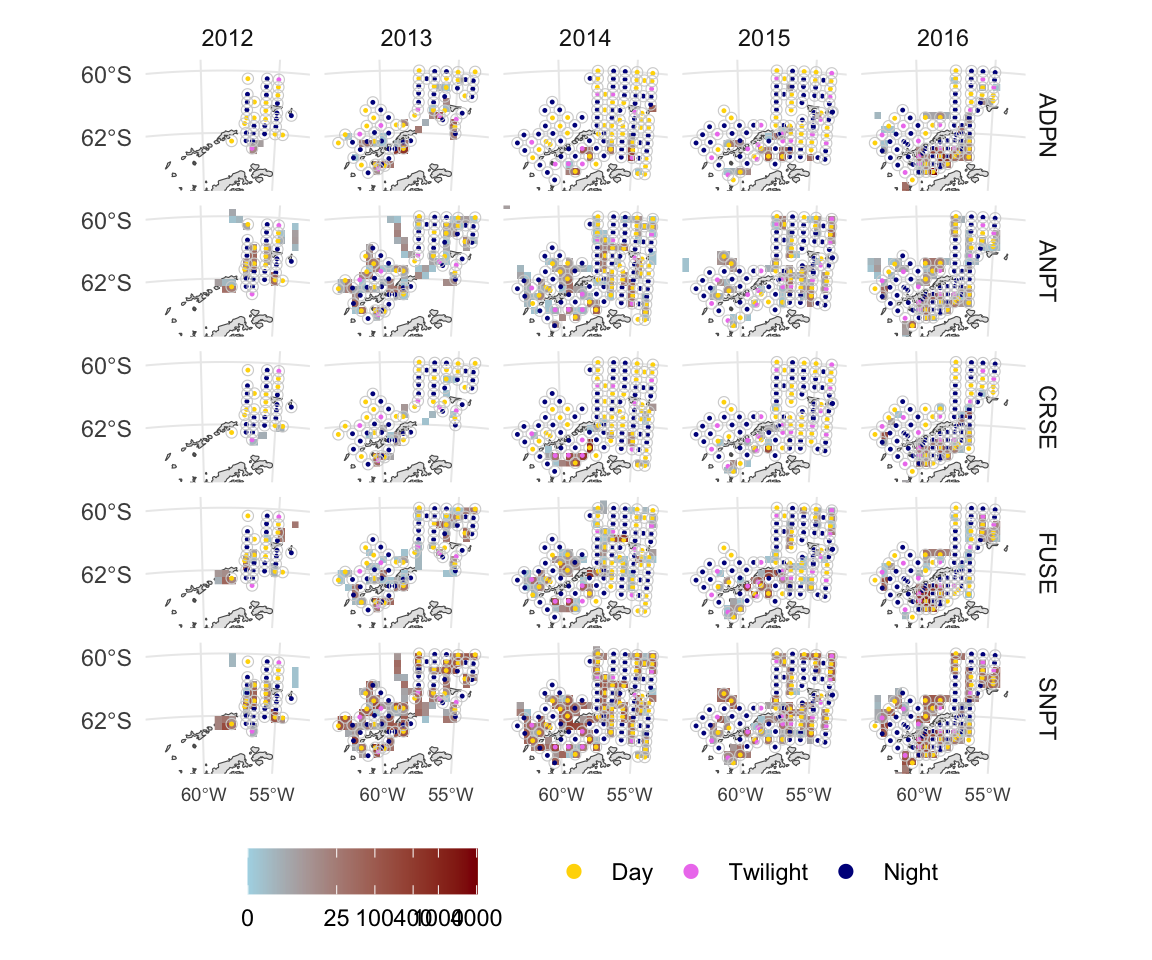
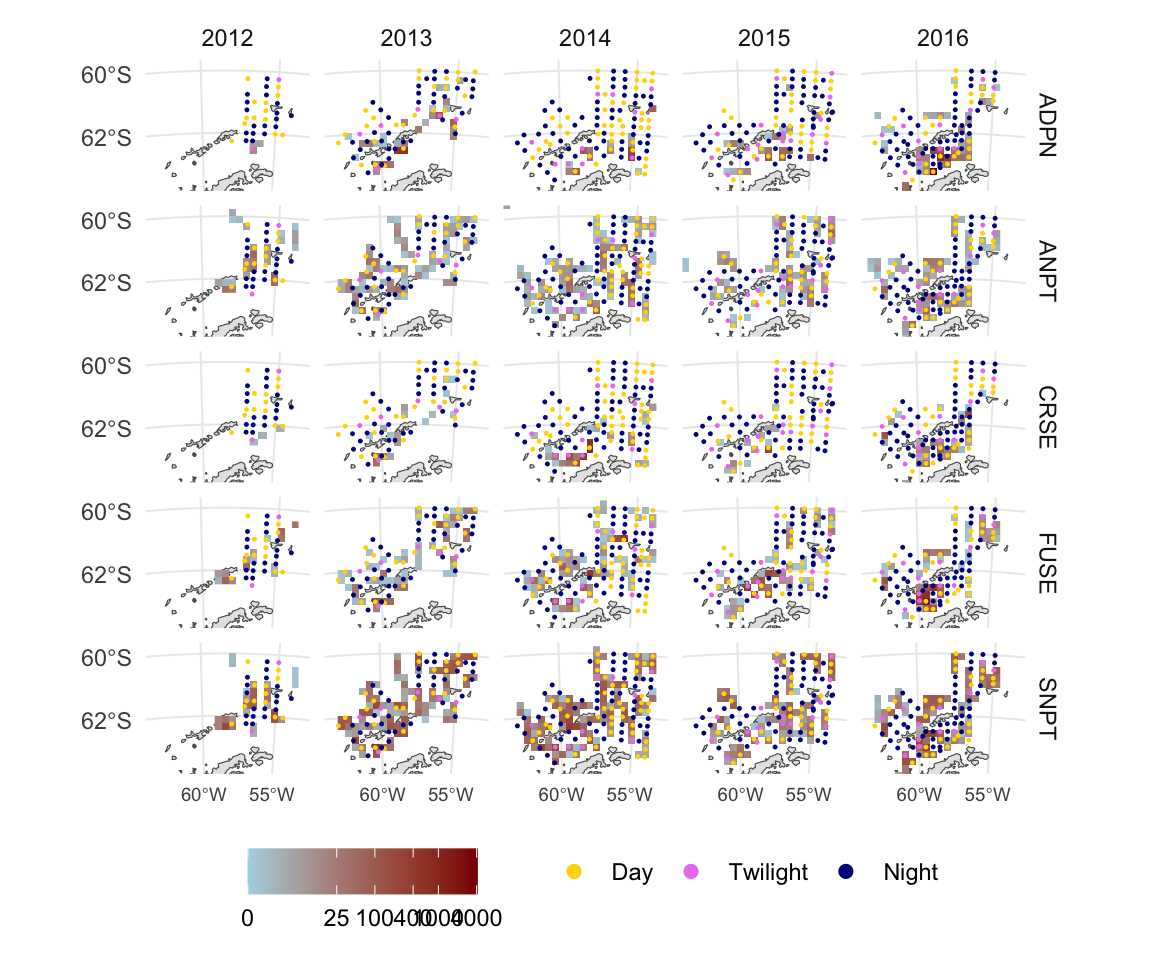
Remove buffers from combined maps

diff --git a/docs/03_combined.html b/docs/03_combined.html
@@ -152,21 +152,20 @@ code span.wa { color: #60a0b0; font-weight: bold; font-style: italic; } /* Warni
 <span id="cb1-23"><a href="#cb1-23" aria-hidden="true" tabindex="-1"></a><span class="fu">ant_basemap</span>(map_lim) <span class="sc">+</span></span>
 <span id="cb1-24"><a href="#cb1-24" aria-hidden="true" tabindex="-1"></a>  stars<span class="sc">::</span><span class="fu">geom_stars</span>(<span class="fu">aes</span>(<span class="at">fill =</span> count), <span class="at">data =</span> topfive_stars) <span class="sc">+</span></span>
 <span id="cb1-25"><a href="#cb1-25" aria-hidden="true" tabindex="-1"></a>  <span class="fu">geom_sf</span>(<span class="fu">aes</span>(<span class="at">color =</span> time.of.day), zoop_sf, <span class="at">size =</span> <span class="fl">0.2</span>) <span class="sc">+</span></span>
-<span id="cb1-26"><a href="#cb1-26" aria-hidden="true" tabindex="-1"></a>  <span class="fu">geom_sf</span>(<span class="at">data =</span> zoop_buffers_20k, <span class="at">color =</span> <span class="st">"lightgrey"</span>, <span class="at">fill =</span> <span class="cn">NA</span>) <span class="sc">+</span></span>
-<span id="cb1-27"><a href="#cb1-27" aria-hidden="true" tabindex="-1"></a>  <span class="fu">scale_x_continuous</span>(<span class="at">breaks =</span> <span class="fu">c</span>(<span class="sc">-</span><span class="dv">65</span>, <span class="sc">-</span><span class="dv">60</span>, <span class="sc">-</span><span class="dv">55</span>)) <span class="sc">+</span></span>
-<span id="cb1-28"><a href="#cb1-28" aria-hidden="true" tabindex="-1"></a>  <span class="fu">scale_y_continuous</span>(<span class="at">breaks =</span> <span class="fu">c</span>(<span class="sc">-</span><span class="dv">66</span>, <span class="sc">-</span><span class="dv">64</span>, <span class="sc">-</span><span class="dv">62</span>, <span class="sc">-</span><span class="dv">60</span>)) <span class="sc">+</span></span>
-<span id="cb1-29"><a href="#cb1-29" aria-hidden="true" tabindex="-1"></a>  <span class="fu">scale_fill_gradient</span>(<span class="at">low =</span> <span class="st">"lightblue"</span>, <span class="at">high =</span> <span class="st">"darkred"</span>,</span>
-<span id="cb1-30"><a href="#cb1-30" aria-hidden="true" tabindex="-1"></a>                      <span class="at">trans =</span> scales<span class="sc">::</span><span class="fu">pseudo_log_trans</span>(),</span>
-<span id="cb1-31"><a href="#cb1-31" aria-hidden="true" tabindex="-1"></a>                      <span class="at">breaks =</span> <span class="fu">c</span>(<span class="dv">0</span>, <span class="dv">25</span>, <span class="dv">100</span>, <span class="dv">400</span>, <span class="dv">1000</span>, <span class="dv">4000</span>),</span>
-<span id="cb1-32"><a href="#cb1-32" aria-hidden="true" tabindex="-1"></a>                      <span class="at">na.value =</span> <span class="cn">NA</span>) <span class="sc">+</span></span>
-<span id="cb1-33"><a href="#cb1-33" aria-hidden="true" tabindex="-1"></a>  <span class="fu">scale_color_manual</span>(<span class="at">values =</span> <span class="fu">tod_pal</span>()) <span class="sc">+</span></span>
-<span id="cb1-34"><a href="#cb1-34" aria-hidden="true" tabindex="-1"></a>  <span class="fu">guides</span>(<span class="at">color =</span> <span class="fu">guide_legend</span>(<span class="at">override.aes =</span> <span class="fu">list</span>(<span class="at">size =</span> <span class="dv">2</span>))) <span class="sc">+</span></span>
-<span id="cb1-35"><a href="#cb1-35" aria-hidden="true" tabindex="-1"></a>  <span class="fu">coord_ant</span>(map_lim) <span class="sc">+</span></span>
-<span id="cb1-36"><a href="#cb1-36" aria-hidden="true" tabindex="-1"></a>  <span class="fu">facet_grid</span>(species <span class="sc">~</span> year) <span class="sc">+</span></span>
-<span id="cb1-37"><a href="#cb1-37" aria-hidden="true" tabindex="-1"></a>  <span class="fu">expand_limits</span>(<span class="at">fill =</span> <span class="dv">0</span>) <span class="sc">+</span></span>
-<span id="cb1-38"><a href="#cb1-38" aria-hidden="true" tabindex="-1"></a>  <span class="fu">theme</span>(<span class="at">axis.text.x =</span> <span class="fu">element_text</span>(<span class="at">size =</span> <span class="dv">7</span>),</span>
-<span id="cb1-39"><a href="#cb1-39" aria-hidden="true" tabindex="-1"></a>        <span class="at">legend.position =</span> <span class="st">"bottom"</span>,</span>
-<span id="cb1-40"><a href="#cb1-40" aria-hidden="true" tabindex="-1"></a>        <span class="at">legend.title =</span> <span class="fu">element_blank</span>())</span></code><button title="Copy to Clipboard" class="code-copy-button"><i class="bi"></i></button></pre></div>
+<span id="cb1-26"><a href="#cb1-26" aria-hidden="true" tabindex="-1"></a>  <span class="fu">scale_x_continuous</span>(<span class="at">breaks =</span> <span class="fu">c</span>(<span class="sc">-</span><span class="dv">65</span>, <span class="sc">-</span><span class="dv">60</span>, <span class="sc">-</span><span class="dv">55</span>)) <span class="sc">+</span></span>
+<span id="cb1-27"><a href="#cb1-27" aria-hidden="true" tabindex="-1"></a>  <span class="fu">scale_y_continuous</span>(<span class="at">breaks =</span> <span class="fu">c</span>(<span class="sc">-</span><span class="dv">66</span>, <span class="sc">-</span><span class="dv">64</span>, <span class="sc">-</span><span class="dv">62</span>, <span class="sc">-</span><span class="dv">60</span>)) <span class="sc">+</span></span>
+<span id="cb1-28"><a href="#cb1-28" aria-hidden="true" tabindex="-1"></a>  <span class="fu">scale_fill_gradient</span>(<span class="at">low =</span> <span class="st">"lightblue"</span>, <span class="at">high =</span> <span class="st">"darkred"</span>,</span>
+<span id="cb1-29"><a href="#cb1-29" aria-hidden="true" tabindex="-1"></a>                      <span class="at">trans =</span> scales<span class="sc">::</span><span class="fu">pseudo_log_trans</span>(),</span>
+<span id="cb1-30"><a href="#cb1-30" aria-hidden="true" tabindex="-1"></a>                      <span class="at">breaks =</span> <span class="fu">c</span>(<span class="dv">0</span>, <span class="dv">25</span>, <span class="dv">100</span>, <span class="dv">400</span>, <span class="dv">1000</span>, <span class="dv">4000</span>),</span>
+<span id="cb1-31"><a href="#cb1-31" aria-hidden="true" tabindex="-1"></a>                      <span class="at">na.value =</span> <span class="cn">NA</span>) <span class="sc">+</span></span>
+<span id="cb1-32"><a href="#cb1-32" aria-hidden="true" tabindex="-1"></a>  <span class="fu">scale_color_manual</span>(<span class="at">values =</span> <span class="fu">tod_pal</span>()) <span class="sc">+</span></span>
+<span id="cb1-33"><a href="#cb1-33" aria-hidden="true" tabindex="-1"></a>  <span class="fu">guides</span>(<span class="at">color =</span> <span class="fu">guide_legend</span>(<span class="at">override.aes =</span> <span class="fu">list</span>(<span class="at">size =</span> <span class="dv">2</span>))) <span class="sc">+</span></span>
+<span id="cb1-34"><a href="#cb1-34" aria-hidden="true" tabindex="-1"></a>  <span class="fu">coord_ant</span>(map_lim) <span class="sc">+</span></span>
+<span id="cb1-35"><a href="#cb1-35" aria-hidden="true" tabindex="-1"></a>  <span class="fu">facet_grid</span>(species <span class="sc">~</span> year) <span class="sc">+</span></span>
+<span id="cb1-36"><a href="#cb1-36" aria-hidden="true" tabindex="-1"></a>  <span class="fu">expand_limits</span>(<span class="at">fill =</span> <span class="dv">0</span>) <span class="sc">+</span></span>
+<span id="cb1-37"><a href="#cb1-37" aria-hidden="true" tabindex="-1"></a>  <span class="fu">theme</span>(<span class="at">axis.text.x =</span> <span class="fu">element_text</span>(<span class="at">size =</span> <span class="dv">7</span>),</span>
+<span id="cb1-38"><a href="#cb1-38" aria-hidden="true" tabindex="-1"></a>        <span class="at">legend.position =</span> <span class="st">"bottom"</span>,</span>
+<span id="cb1-39"><a href="#cb1-39" aria-hidden="true" tabindex="-1"></a>        <span class="at">legend.title =</span> <span class="fu">element_blank</span>())</span></code><button title="Copy to Clipboard" class="code-copy-button"><i class="bi"></i></button></pre></div>
 </details>
 <div class="cell-output-display column-screen">
 <p><img src="03_combined_files/figure-html/combined_map-1.png" class="img-fluid" style="width:100.0%"></p>
@@ -187,21 +186,20 @@ code span.wa { color: #60a0b0; font-weight: bold; font-style: italic; } /* Warni
 <span id="cb2-9"><a href="#cb2-9" aria-hidden="true" tabindex="-1"></a><span class="fu">ant_basemap</span>(map_lim) <span class="sc">+</span></span>
 <span id="cb2-10"><a href="#cb2-10" aria-hidden="true" tabindex="-1"></a>  stars<span class="sc">::</span><span class="fu">geom_stars</span>(<span class="fu">aes</span>(<span class="at">fill =</span> count), <span class="at">data =</span> soi_stars) <span class="sc">+</span></span>
 <span id="cb2-11"><a href="#cb2-11" aria-hidden="true" tabindex="-1"></a>  <span class="fu">geom_sf</span>(<span class="fu">aes</span>(<span class="at">color =</span> time.of.day), zoop_sf, <span class="at">size =</span> <span class="fl">0.2</span>) <span class="sc">+</span></span>
-<span id="cb2-12"><a href="#cb2-12" aria-hidden="true" tabindex="-1"></a>  <span class="fu">geom_sf</span>(<span class="at">data =</span> zoop_buffers_20k, <span class="at">color =</span> <span class="st">"lightgrey"</span>, <span class="at">fill =</span> <span class="cn">NA</span>) <span class="sc">+</span></span>
-<span id="cb2-13"><a href="#cb2-13" aria-hidden="true" tabindex="-1"></a>  <span class="fu">scale_x_continuous</span>(<span class="at">breaks =</span> <span class="fu">c</span>(<span class="sc">-</span><span class="dv">65</span>, <span class="sc">-</span><span class="dv">60</span>, <span class="sc">-</span><span class="dv">55</span>)) <span class="sc">+</span></span>
-<span id="cb2-14"><a href="#cb2-14" aria-hidden="true" tabindex="-1"></a>  <span class="fu">scale_y_continuous</span>(<span class="at">breaks =</span> <span class="fu">c</span>(<span class="sc">-</span><span class="dv">66</span>, <span class="sc">-</span><span class="dv">64</span>, <span class="sc">-</span><span class="dv">62</span>, <span class="sc">-</span><span class="dv">60</span>)) <span class="sc">+</span></span>
-<span id="cb2-15"><a href="#cb2-15" aria-hidden="true" tabindex="-1"></a>  <span class="fu">scale_fill_gradient</span>(<span class="at">low =</span> <span class="st">"lightblue"</span>, <span class="at">high =</span> <span class="st">"darkred"</span>,</span>
-<span id="cb2-16"><a href="#cb2-16" aria-hidden="true" tabindex="-1"></a>                      <span class="at">trans =</span> scales<span class="sc">::</span><span class="fu">pseudo_log_trans</span>(),</span>
-<span id="cb2-17"><a href="#cb2-17" aria-hidden="true" tabindex="-1"></a>                      <span class="at">breaks =</span> <span class="fu">c</span>(<span class="dv">0</span>, <span class="dv">25</span>, <span class="dv">100</span>, <span class="dv">400</span>, <span class="dv">1000</span>, <span class="dv">4000</span>),</span>
-<span id="cb2-18"><a href="#cb2-18" aria-hidden="true" tabindex="-1"></a>                      <span class="at">na.value =</span> <span class="cn">NA</span>) <span class="sc">+</span></span>
-<span id="cb2-19"><a href="#cb2-19" aria-hidden="true" tabindex="-1"></a>  <span class="fu">scale_color_manual</span>(<span class="at">values =</span> <span class="fu">tod_pal</span>()) <span class="sc">+</span></span>
-<span id="cb2-20"><a href="#cb2-20" aria-hidden="true" tabindex="-1"></a>  <span class="fu">guides</span>(<span class="at">color =</span> <span class="fu">guide_legend</span>(<span class="at">override.aes =</span> <span class="fu">list</span>(<span class="at">size =</span> <span class="dv">2</span>))) <span class="sc">+</span></span>
-<span id="cb2-21"><a href="#cb2-21" aria-hidden="true" tabindex="-1"></a>  <span class="fu">coord_ant</span>(map_lim) <span class="sc">+</span></span>
-<span id="cb2-22"><a href="#cb2-22" aria-hidden="true" tabindex="-1"></a>  <span class="fu">facet_grid</span>(species <span class="sc">~</span> year) <span class="sc">+</span></span>
-<span id="cb2-23"><a href="#cb2-23" aria-hidden="true" tabindex="-1"></a>  <span class="fu">expand_limits</span>(<span class="at">fill =</span> <span class="dv">0</span>) <span class="sc">+</span></span>
-<span id="cb2-24"><a href="#cb2-24" aria-hidden="true" tabindex="-1"></a>  <span class="fu">theme</span>(<span class="at">axis.text.x =</span> <span class="fu">element_text</span>(<span class="at">size =</span> <span class="dv">7</span>),</span>
-<span id="cb2-25"><a href="#cb2-25" aria-hidden="true" tabindex="-1"></a>        <span class="at">legend.position =</span> <span class="st">"bottom"</span>,</span>
-<span id="cb2-26"><a href="#cb2-26" aria-hidden="true" tabindex="-1"></a>        <span class="at">legend.title =</span> <span class="fu">element_blank</span>())</span></code><button title="Copy to Clipboard" class="code-copy-button"><i class="bi"></i></button></pre></div>
+<span id="cb2-12"><a href="#cb2-12" aria-hidden="true" tabindex="-1"></a>  <span class="fu">scale_x_continuous</span>(<span class="at">breaks =</span> <span class="fu">c</span>(<span class="sc">-</span><span class="dv">65</span>, <span class="sc">-</span><span class="dv">60</span>, <span class="sc">-</span><span class="dv">55</span>)) <span class="sc">+</span></span>
+<span id="cb2-13"><a href="#cb2-13" aria-hidden="true" tabindex="-1"></a>  <span class="fu">scale_y_continuous</span>(<span class="at">breaks =</span> <span class="fu">c</span>(<span class="sc">-</span><span class="dv">66</span>, <span class="sc">-</span><span class="dv">64</span>, <span class="sc">-</span><span class="dv">62</span>, <span class="sc">-</span><span class="dv">60</span>)) <span class="sc">+</span></span>
+<span id="cb2-14"><a href="#cb2-14" aria-hidden="true" tabindex="-1"></a>  <span class="fu">scale_fill_gradient</span>(<span class="at">low =</span> <span class="st">"lightblue"</span>, <span class="at">high =</span> <span class="st">"darkred"</span>,</span>
+<span id="cb2-15"><a href="#cb2-15" aria-hidden="true" tabindex="-1"></a>                      <span class="at">trans =</span> scales<span class="sc">::</span><span class="fu">pseudo_log_trans</span>(),</span>
+<span id="cb2-16"><a href="#cb2-16" aria-hidden="true" tabindex="-1"></a>                      <span class="at">breaks =</span> <span class="fu">c</span>(<span class="dv">0</span>, <span class="dv">25</span>, <span class="dv">100</span>, <span class="dv">400</span>, <span class="dv">1000</span>, <span class="dv">4000</span>),</span>
+<span id="cb2-17"><a href="#cb2-17" aria-hidden="true" tabindex="-1"></a>                      <span class="at">na.value =</span> <span class="cn">NA</span>) <span class="sc">+</span></span>
+<span id="cb2-18"><a href="#cb2-18" aria-hidden="true" tabindex="-1"></a>  <span class="fu">scale_color_manual</span>(<span class="at">values =</span> <span class="fu">tod_pal</span>()) <span class="sc">+</span></span>
+<span id="cb2-19"><a href="#cb2-19" aria-hidden="true" tabindex="-1"></a>  <span class="fu">guides</span>(<span class="at">color =</span> <span class="fu">guide_legend</span>(<span class="at">override.aes =</span> <span class="fu">list</span>(<span class="at">size =</span> <span class="dv">2</span>))) <span class="sc">+</span></span>
+<span id="cb2-20"><a href="#cb2-20" aria-hidden="true" tabindex="-1"></a>  <span class="fu">coord_ant</span>(map_lim) <span class="sc">+</span></span>
+<span id="cb2-21"><a href="#cb2-21" aria-hidden="true" tabindex="-1"></a>  <span class="fu">facet_grid</span>(species <span class="sc">~</span> year) <span class="sc">+</span></span>
+<span id="cb2-22"><a href="#cb2-22" aria-hidden="true" tabindex="-1"></a>  <span class="fu">expand_limits</span>(<span class="at">fill =</span> <span class="dv">0</span>) <span class="sc">+</span></span>
+<span id="cb2-23"><a href="#cb2-23" aria-hidden="true" tabindex="-1"></a>  <span class="fu">theme</span>(<span class="at">axis.text.x =</span> <span class="fu">element_text</span>(<span class="at">size =</span> <span class="dv">7</span>),</span>
+<span id="cb2-24"><a href="#cb2-24" aria-hidden="true" tabindex="-1"></a>        <span class="at">legend.position =</span> <span class="st">"bottom"</span>,</span>
+<span id="cb2-25"><a href="#cb2-25" aria-hidden="true" tabindex="-1"></a>        <span class="at">legend.title =</span> <span class="fu">element_blank</span>())</span></code><button title="Copy to Clipboard" class="code-copy-button"><i class="bi"></i></button></pre></div>
 </details>
 <div class="cell-output-display column-screen">
 <p><img src="03_combined_files/figure-html/combined_map_soi-1.png" class="img-fluid" style="width:100.0%"></p>
